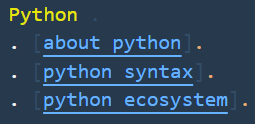
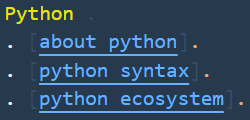
More docs

diff --git a/README.md b/README.md
@@ -59,6 +59,7 @@ underscores and appending `.xi` suffix. So clicking on the `[foo]` wikiword
 will instruct VSCode to open `foo.xi` in same folder, or ask to create one
 if it does not exist.
 
+<!--- 250px 120px -->
 ![wikiword link](https://raw.githubusercontent.com/grigoryvp/vscode-language-xi/master/doc/link_1.png)
 
 Wikiword links with anchors extend this concept by allowing to add heading
@@ -71,10 +72,16 @@ space-and-dot. Mostly useful while describing APIs or frameworks with
 complex tree structures where some headers points to articles of their own.
 Header can also start and/or end with wikiword links.
 
+<!--- 450px 120px -->
+![wikiword link](https://raw.githubusercontent.com/grigoryvp/vscode-language-xi/master/doc/link_2.png)
+
 Anchor links starts with `#` and jumps within same document (mostly used for
 "Reference" section at bottom). Anchor target is specified by placing
 `#` as a last symbol of a wikiword link, so clicking on the link `[#1]`
 will jump into a line with `[1#]` anchor.
+
+<!--- 840px 120px -->
+![wikiword link](https://raw.githubusercontent.com/grigoryvp/vscode-language-xi/master/doc/link_3.png)
 
 ## Todo
 
